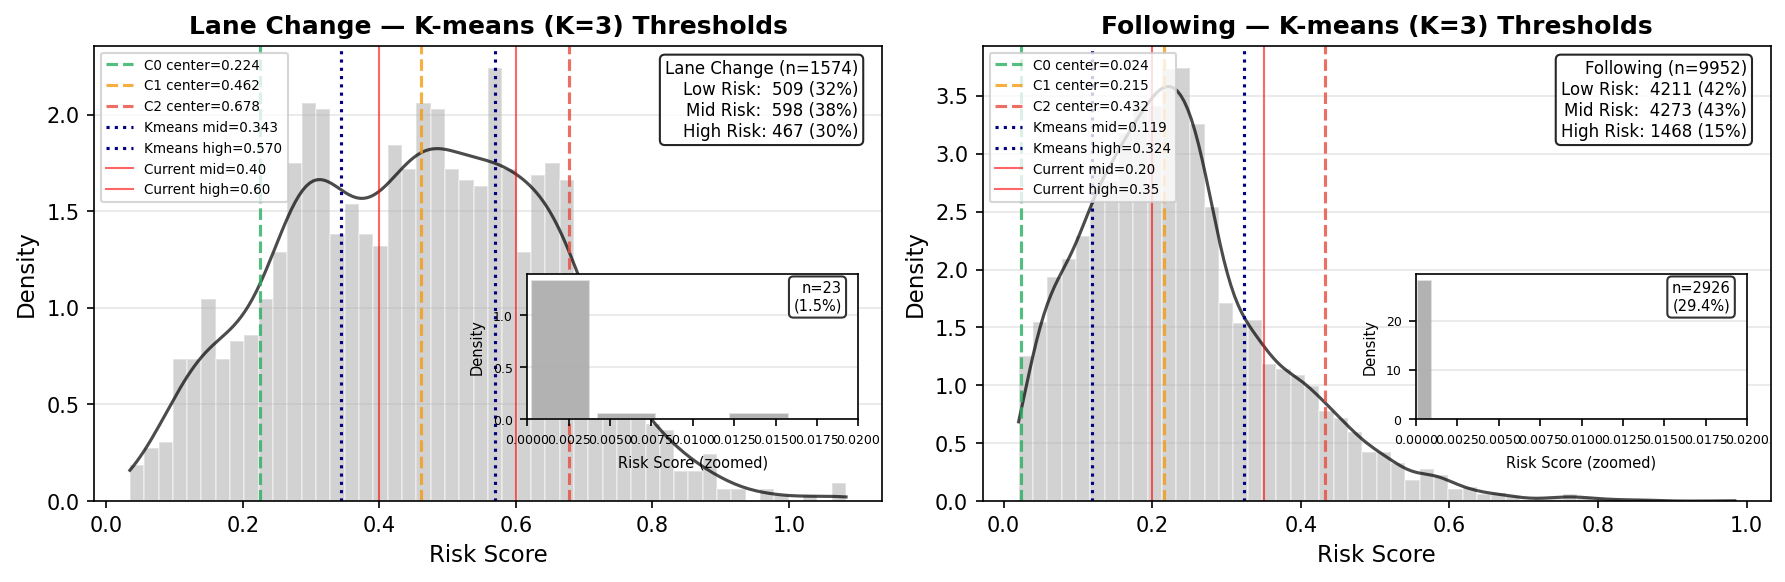
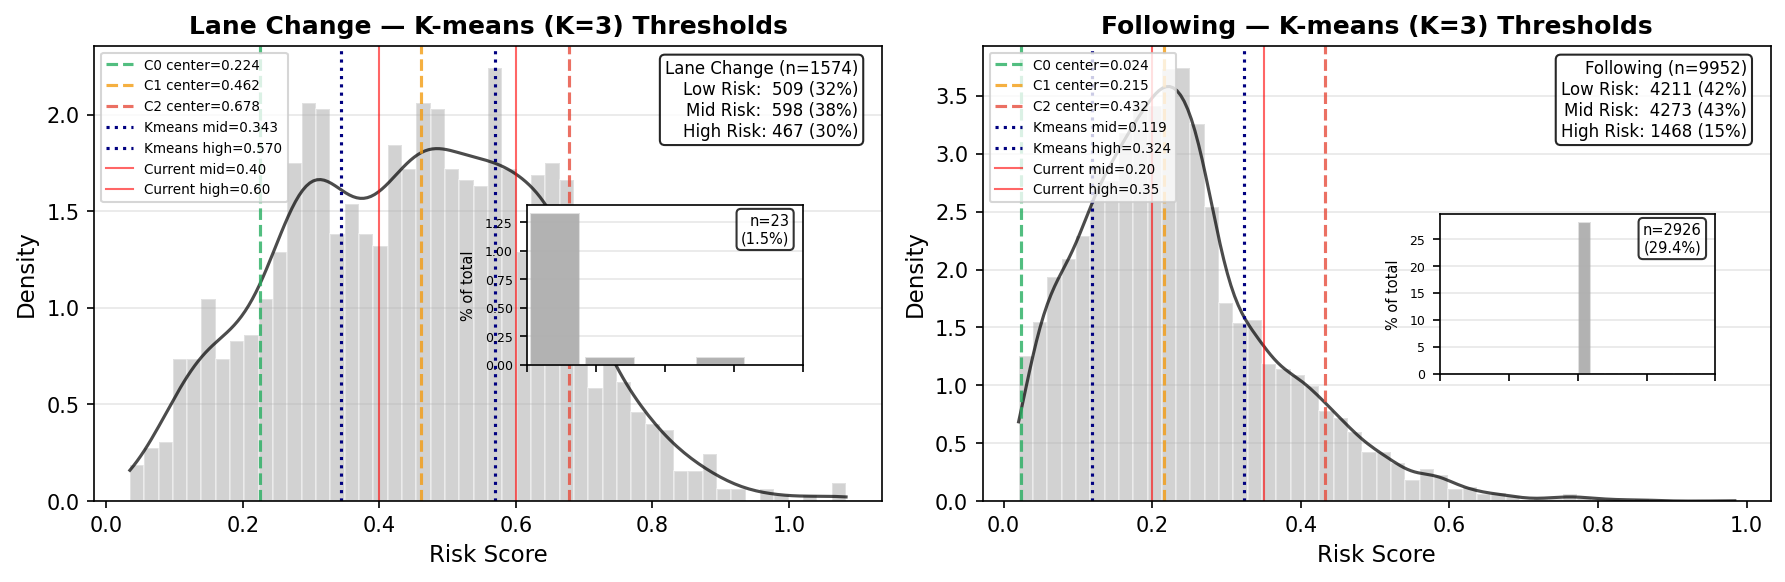
fix: K-means小图改为正方形、跟驰x=0居中、无底标

Changed region(s): [[0.2465, 0.3402, 0.493, 0.8041], [0.7395, 0.3402, 0.986, 0.8041]]

diff --git a/traffic_full/safety_scoring_exp.py b/traffic_full/safety_scoring_exp.py
@@ -342,11 +342,15 @@ def _plot_kmeans_thresholds(results):
 
         # ── 低分区域放大窗（0-0.02 百分比柱状图） ──
         if len(zoom_scores) > 0:
-            ax_inset = ax.inset_axes([0.55, 0.18, 0.42, 0.32])
+            # 右侧居中正方形
+            if data_type == 'fl':
+                ax_inset = ax.inset_axes([0.58, 0.28, 0.35, 0.35])
+            else:
+                ax_inset = ax.inset_axes([0.55, 0.30, 0.35, 0.35])
 
             bins_zoom = min(20, max(5, int(len(zoom_scores) / 50)))
             counts, edges = np.histogram(zoom_scores, bins=bins_zoom, range=(0, zoom_xmax))
-            pcts = counts / len(scores) * 100  # 百分比
+            pcts = counts / len(scores) * 100
             centers_bins = (edges[:-1] + edges[1:]) / 2
             widths = np.diff(edges)
 
@@ -358,14 +362,13 @@ def _plot_kmeans_thresholds(results):
                           transform=ax_inset.transAxes, va='top', ha='right',
                           fontsize=7, bbox=dict(boxstyle='round', facecolor='white', alpha=0.8))
 
-            ax_inset.set_xlim(0, zoom_xmax)
-            ax_inset.set_xlabel('Risk Score', fontsize=7)
+            # 跟驰：x=0 居中，范围 [-0.01, 0.01]
+            if data_type == 'fl':
+                ax_inset.set_xlim(-0.01, 0.01)
+            else:
+                ax_inset.set_xlim(0, zoom_xmax)
             ax_inset.set_ylabel('% of total', fontsize=7)
-            ax_inset.tick_params(labelsize=6)
-            ax_inset.grid(axis='y', alpha=0.3)
-            ax_inset.set_xlabel('Risk Score (zoomed)', fontsize=7)
-            ax_inset.set_ylabel('Density', fontsize=7)
-            ax_inset.tick_params(labelsize=6)
+            ax_inset.tick_params(labelsize=6, labelbottom=False)
             ax_inset.grid(axis='y', alpha=0.3)
 
         counts = res['counts']
